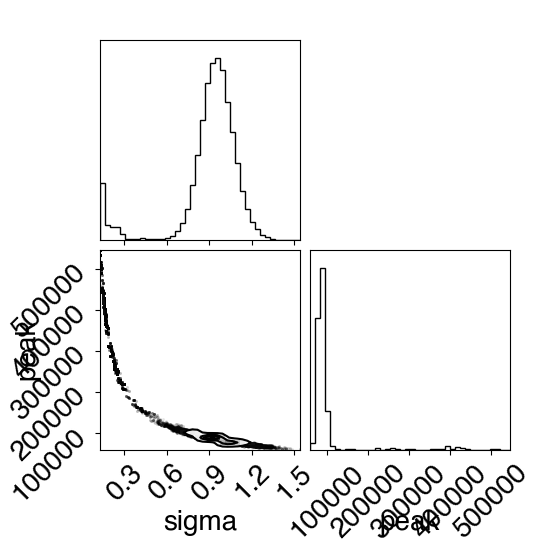
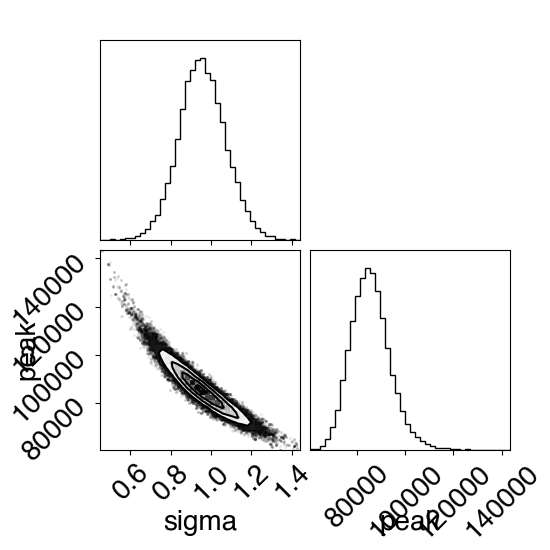
final checks for version 2.0.0

diff --git a/nfoils/unfold.py b/nfoils/unfold.py
@@ -441,16 +441,17 @@ class BayesianUnfolding:
               *np.exp(-energy/mean))
         return flux
     
-    def powerlaw(self,exponent,scale,energy):
+    def powerlaw(self,alpha,scale,energy):
         """ simple power law distribution. 
         Use for the low-energy neutron spectrum
         
         Parameters
         ----------
-        exponent: float
-            exponent/slope of the distribution
+        alpha: float
+            exponent/slope of the distribution 1-2
         scale: float
             scale of the distribution (n/cm2/s)
+            (hypothetical flux around 1 MeV)
         energy : float
             neutron energy MeV
 
@@ -459,7 +460,7 @@ class BayesianUnfolding:
         flux : float
             neutron flux for the given energy
         """
-        flux = scale * (np.power(energy,exponent))
+        flux = scale / (np.power(energy,(1-alpha)))
         return flux
     
     # pre-set probability distributions for likelihood and posterior
@@ -789,7 +790,7 @@ class BayesianUnfolding:
                 min_spectrum,guess_spectrum)
     
     def plot_simple_spectrum(self,model,param_aves,param_stds,
-                             cutoff=None,plotname='spectrum_plot'):
+                             cutoff=None,plotname='spectrum'):
         """ plot solution spectrum+uncertainty and initial
         parameter guess spectrum. simple linear plot
 
@@ -837,7 +838,7 @@ class BayesianUnfolding:
 
 
     def plot_split_spectrum(self,model,param_aves,param_stds,
-                            cutoff=None,plotname='spectrum_plot'):
+                            cutoff=None,plotname='spectrum'):
         """ plot solution spectrum+uncertainty and initial
         parameter guess spectrum. split log-linear plot
 
@@ -904,7 +905,7 @@ class BayesianUnfolding:
         ax1.set_ylabel('Flux (n cm$^{-2}$ s$^{-1}$)',y=0.5)
         ax2.set_yscale('log')
         ax2.set_ylim(1e0)
-        ax2.set_xlim(1)
+        ax2.set_xlim(1,15)
         ax2.tick_params(axis='y',labelleft=False)
         ax2.tick_params(axis='x',labelbottom=False)
         ax2.grid()
@@ -918,7 +919,7 @@ class BayesianUnfolding:
         ax3.set_ylabel('C/M',y=0.5)
         ax4.set_yscale('log')
         ax4.set_ylim(1e-1,1e1)
-        ax4.set_xlim(1)
+        ax4.set_xlim(1,15)
         ax4.tick_params(axis='y',labelleft=False)
         ax4.grid()
         fig.supxlabel('Neutron energy (MeV)',y=0.04)
@@ -928,8 +929,22 @@ class BayesianUnfolding:
         plt.savefig(f'{plotname}.png')
 
     def dump_spectrum(self,model,param_aves,param_stds,
-                      cutoff=None,txtname='spectrum_text'):
+                      cutoff=None,txtname='spectrum'):
         """ dump spectrum for further analysis
+
+        Parameters
+        ----------
+        model : callable 
+            set to the model function
+        param_aves : list[float]
+            mean values for the parameters
+        param_stds : list[float]
+            standard deviation values for the parameters
+        cutoff : int
+            number of unphysical values 
+            to cut off from the end of the spectrum
+        txtname : str
+            name of the dumped spectrum txt file
         """
         # get all the spectra and the group structure
         (mean_spectrum,max_spectrum,
@@ -937,7 +952,7 @@ class BayesianUnfolding:
                                                         param_aves,
                                                         param_stds,
                                                         cutoff)
-    
+
         # get raw uncertainty and dump spectrum+uncert
         print(f'total flux = {np.sum(mean_spectrum)} n/cm2/s')
         uncert_spectrum=[(i-j) for i,j in zip(max_spectrum,mean_spectrum)]

diff --git a/examples/unfold_neutron_spectrum/do_unfolding.py b/examples/unfold_neutron_spectrum/do_unfolding.py
@@ -1,4 +1,4 @@
-""" example for unfolding a 14 MeV peak spectrum 
+""" example for unfolding a broad 14 MeV peak spectrum 
 from reaction rates and response functions with uncertainties. 
 options for running in sequential or in parallel
 """
@@ -18,7 +18,7 @@ nparam = 2
 param_names = ['sigma','peak']
 
 # set initial guesses for each parameter
-guesses = [0.5, 1e5]
+guesses = [0.8, 1e5]
 
 # load the unfolding data and parameter info
 unfold = BayesianUnfolding(files_json,nparam,param_names,guesses)
@@ -68,7 +68,7 @@ log_posterior = unfold.log_posterior
 rm_samples = 1
 
 # number of MCMC walkers/chains
-nwalkers = 30
+nwalkers = 20
 
 # "burn-in" period to let chains stabilize
 nburn = 500

diff --git a/README.md b/README.md
@@ -1,6 +1,6 @@
 # nFoils <img src="https://www.cmosc.org/wp-content/uploads/2020/04/tinfoil.jpg" alt="Foils image" width="100" height="60">
 
-Python package for the measurement of neutron spectra with activation foils. Contributors are welcome!
+Python toolkit for probabilistic neutron measurements with activation foils. Contributors are welcome!
 
 Contact LJB841@bham.ac.uk for further information or if anything is behaving badly. 
 Please reference this code appropriately in your work - accompanying papers to be provided ~2025~ ~2026~ 
@@ -8,17 +8,17 @@ when hell freezes over.
 
 ### Neutron spectrum measurement
 
-The main purpose of the package is for the probabilistic measurement of complex fast neutron spectra 
-(such as a fusion spectrum). This requires all input data should be considered as probability distributions, 
-e.g. foil response functions from nuclear data libraries and reaction rate calculations from foil 
-gamma spectrum measurements. It also requires an unfolding method (used to estimate the neutron spectrum) 
-which takes these distributions into account. For this we use Bayesian unfolding, sampling from a posterior 
-made up of the prior physics-informed guess for what the spectrum should look like parametrically, and the 
-likelihood made up of the input data. 
+The purpose of the package is the probabilistic measurement of complex fast neutron spectra 
+(such as a fusion reactor spectrum). This requires the calculation of probability distributions for the 
+measurement data e.g. foil response functions from nuclear data libraries, and reaction rates from foil 
+gamma spectrum measurements. It also requires an unfolding method which takes these distributions and uses them 
+to estimate a neutron spectrum distribution. For this we developed a Bayesian version of parametric unfolding, 
+which takes a physics-informed parameterisation of the spectrum as a prior, and a likelihood from the input data 
+dsitributions, and samples from the combined posterior.
 
 To do this, the package includes modules for extracting and calculating response functions, 
-calibrating a gamma detector, calculating foil activities and reaction rates, and the Bayesian unfolding 
-program to measure the spectrum. Uncertainty on all inputs/outputs is considered everywhere.
+calibrating a gamma detector, calculating foil activities and reaction rates, and the parametric unfolding 
+program to estimate the spectrum. Uncertainty on all inputs/outputs is considered everywhere.
 
 Tools for performing a flux estimation on a lithium target neutron source, 
 postprocessing of ASCII gamma spec files, and validating of a model/unfolded neutron spectrum by comparing 
@@ -27,7 +27,7 @@ FISPACT activity predictions with the experimental results are also included, as
 ## Installation
 
 First set up a virtual environment with prerequisites installed \*, 
-then install a development version of the package with the following commands:
+then install a development version of the package \** with the following commands:
 ```
 git clone https://github.com/louisbutt338/nFoils.git
 cd nFoils
@@ -43,15 +43,18 @@ export NJOY=/path/to/njoy
 
 \* environment should include python>=3.11.0 pip>=25.0.0 setuptools>=64.0.0 git>=2.39.5 openblas>=0.3.30
 
+\** development version encouraged, so you can adapt the code to your heart's content 
+
 ## How to use
 
-Key example folders are:
+Suggest testing the examples and using them as a starting point for your own measurement. 
+Key example folders for a basic foil measurement are:
 
 - *extract_nuclear_data* for getting relevant foil response functions and uncertainties, 
 using [SANDY](https://github.com/luca-fiorito-11/sandy/) and [NJOY2016](https://github.com/njoy/NJOY2016)
 - *calculate_foil_activities* for measuring foil activities from gamma spectrum peak
 measurements, using [actigamma](https://github.com/fispact/actigamma)
-- *unfold_neutron_spectrum* for Bayesian unfolding of a neutron spectrum, using 
+- *unfold_neutron_spectrum* for probabilistic unfolding of a neutron spectrum, using 
 [emcee](https://github.com/dfm/emcee) and [corner](https://github.com/dfm/corner.py)
 
 *Development was partly supported by an agreement between the University of Birmingham and UKAEA on a Joint Research Laboratory for 
